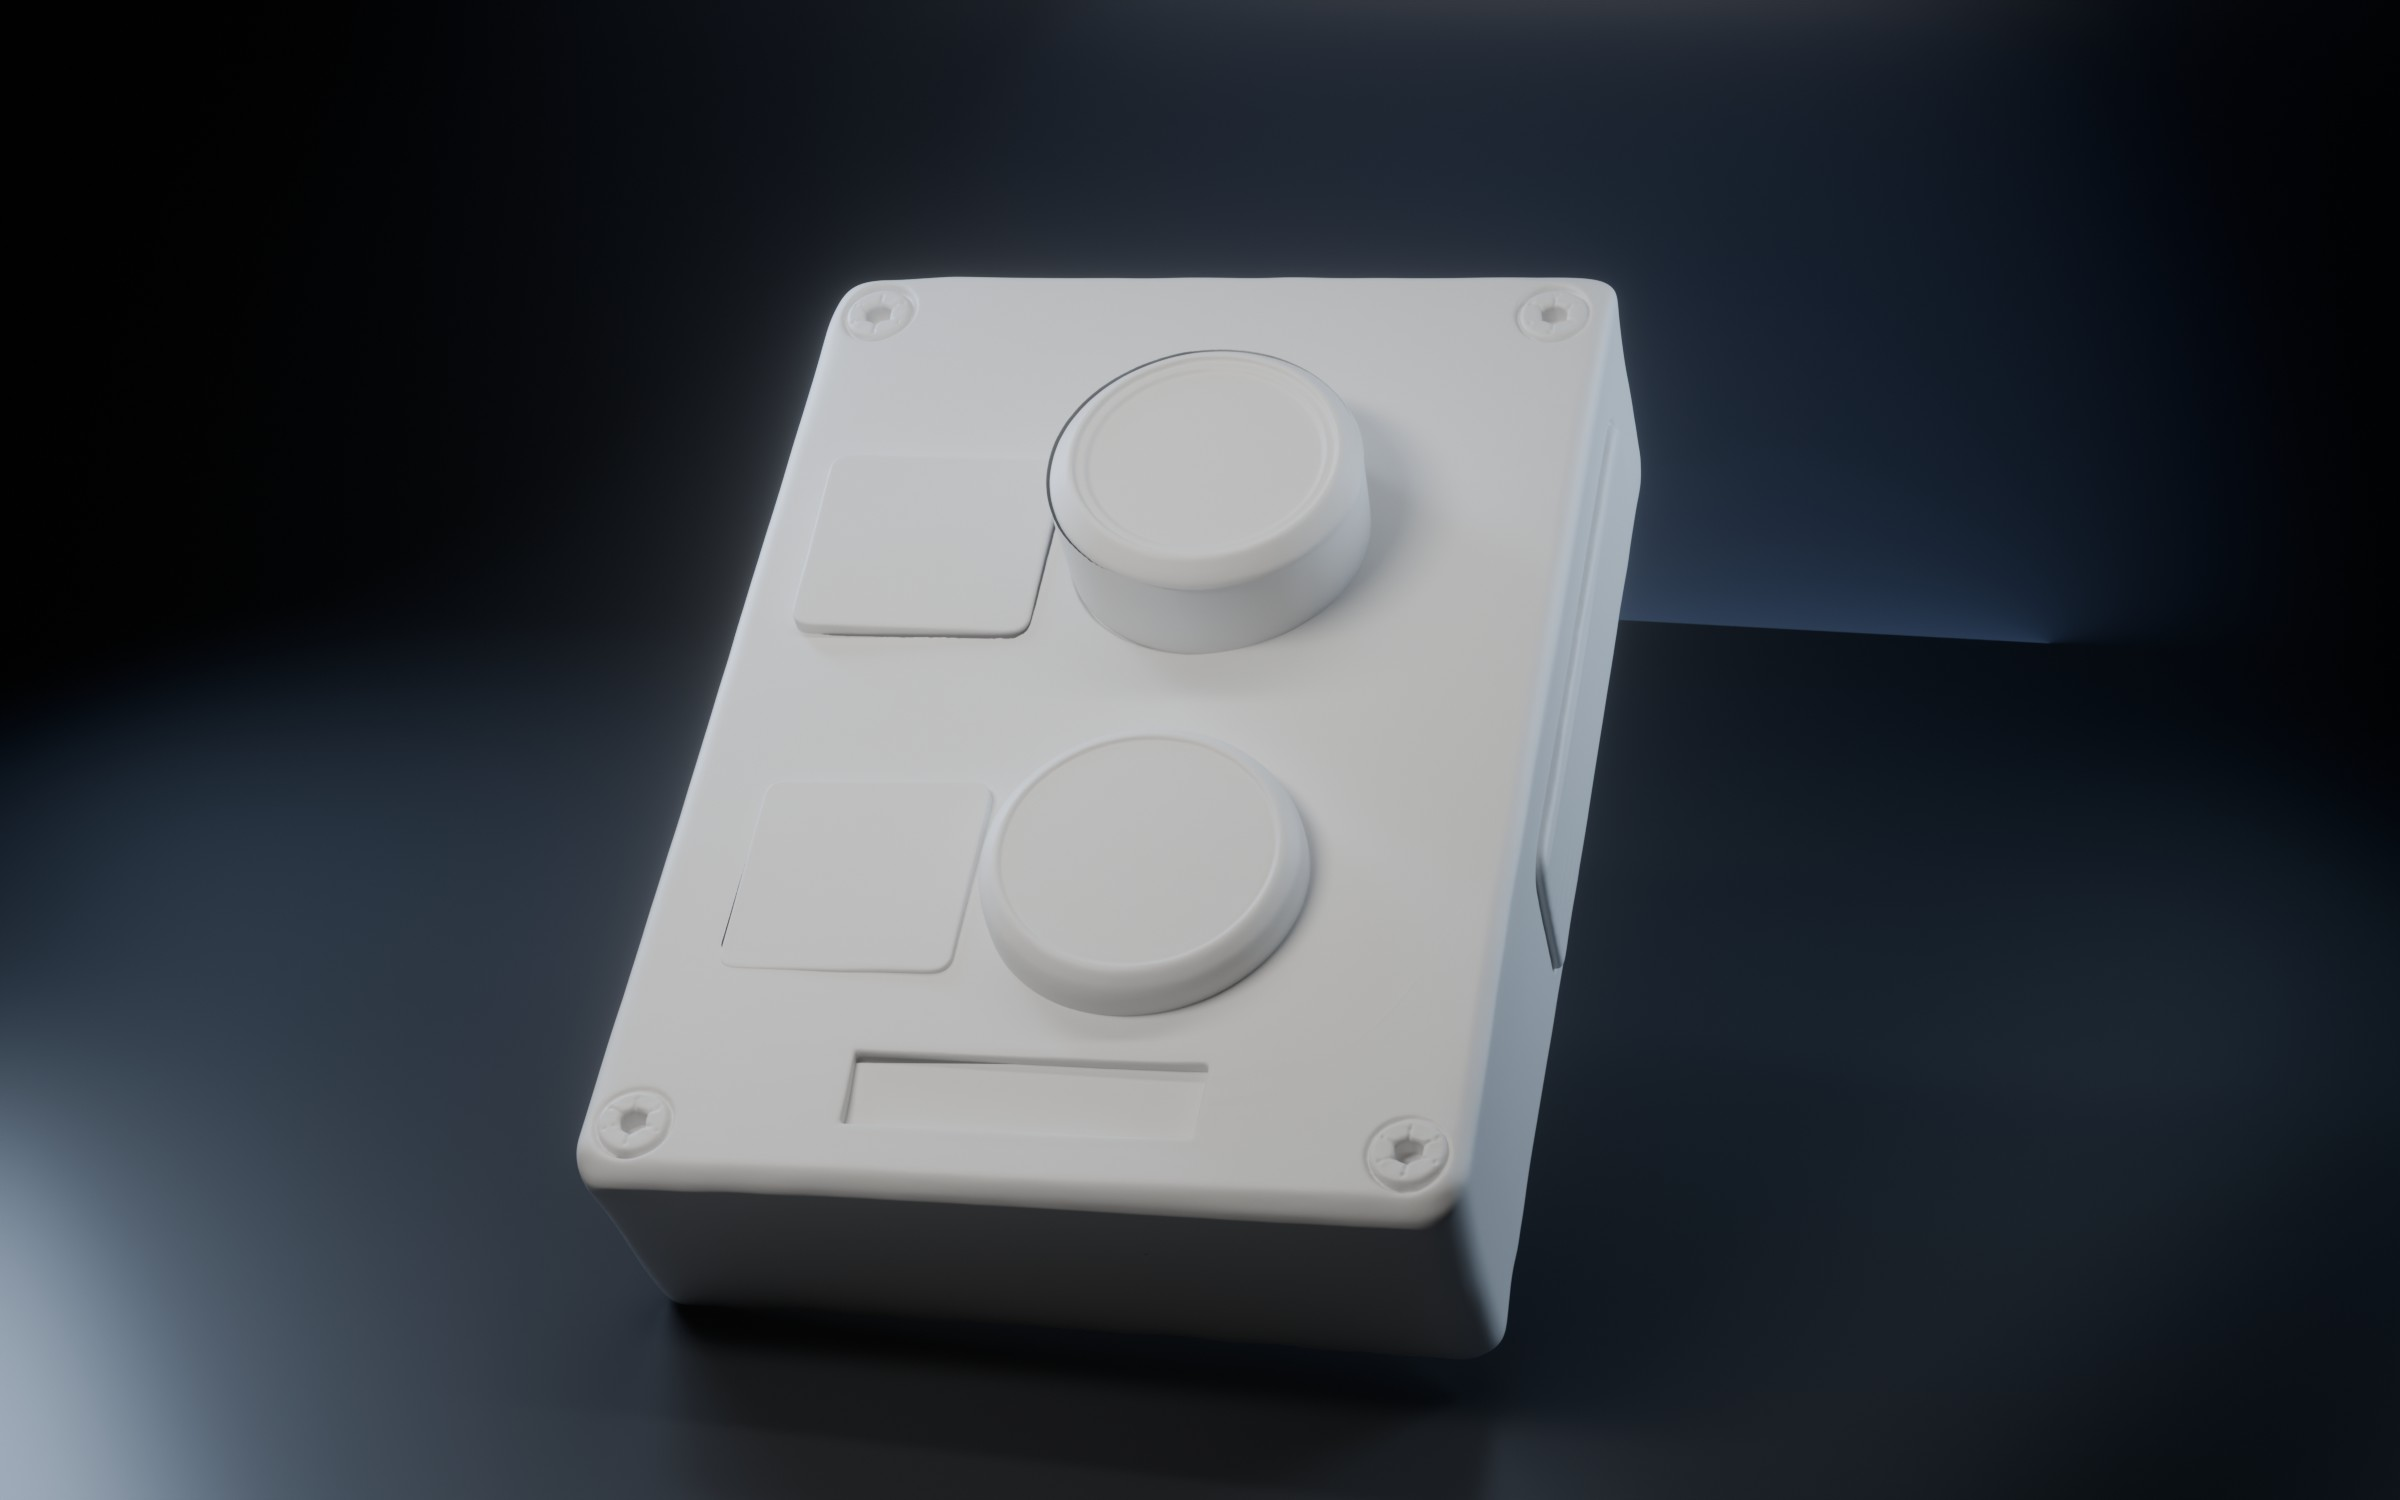
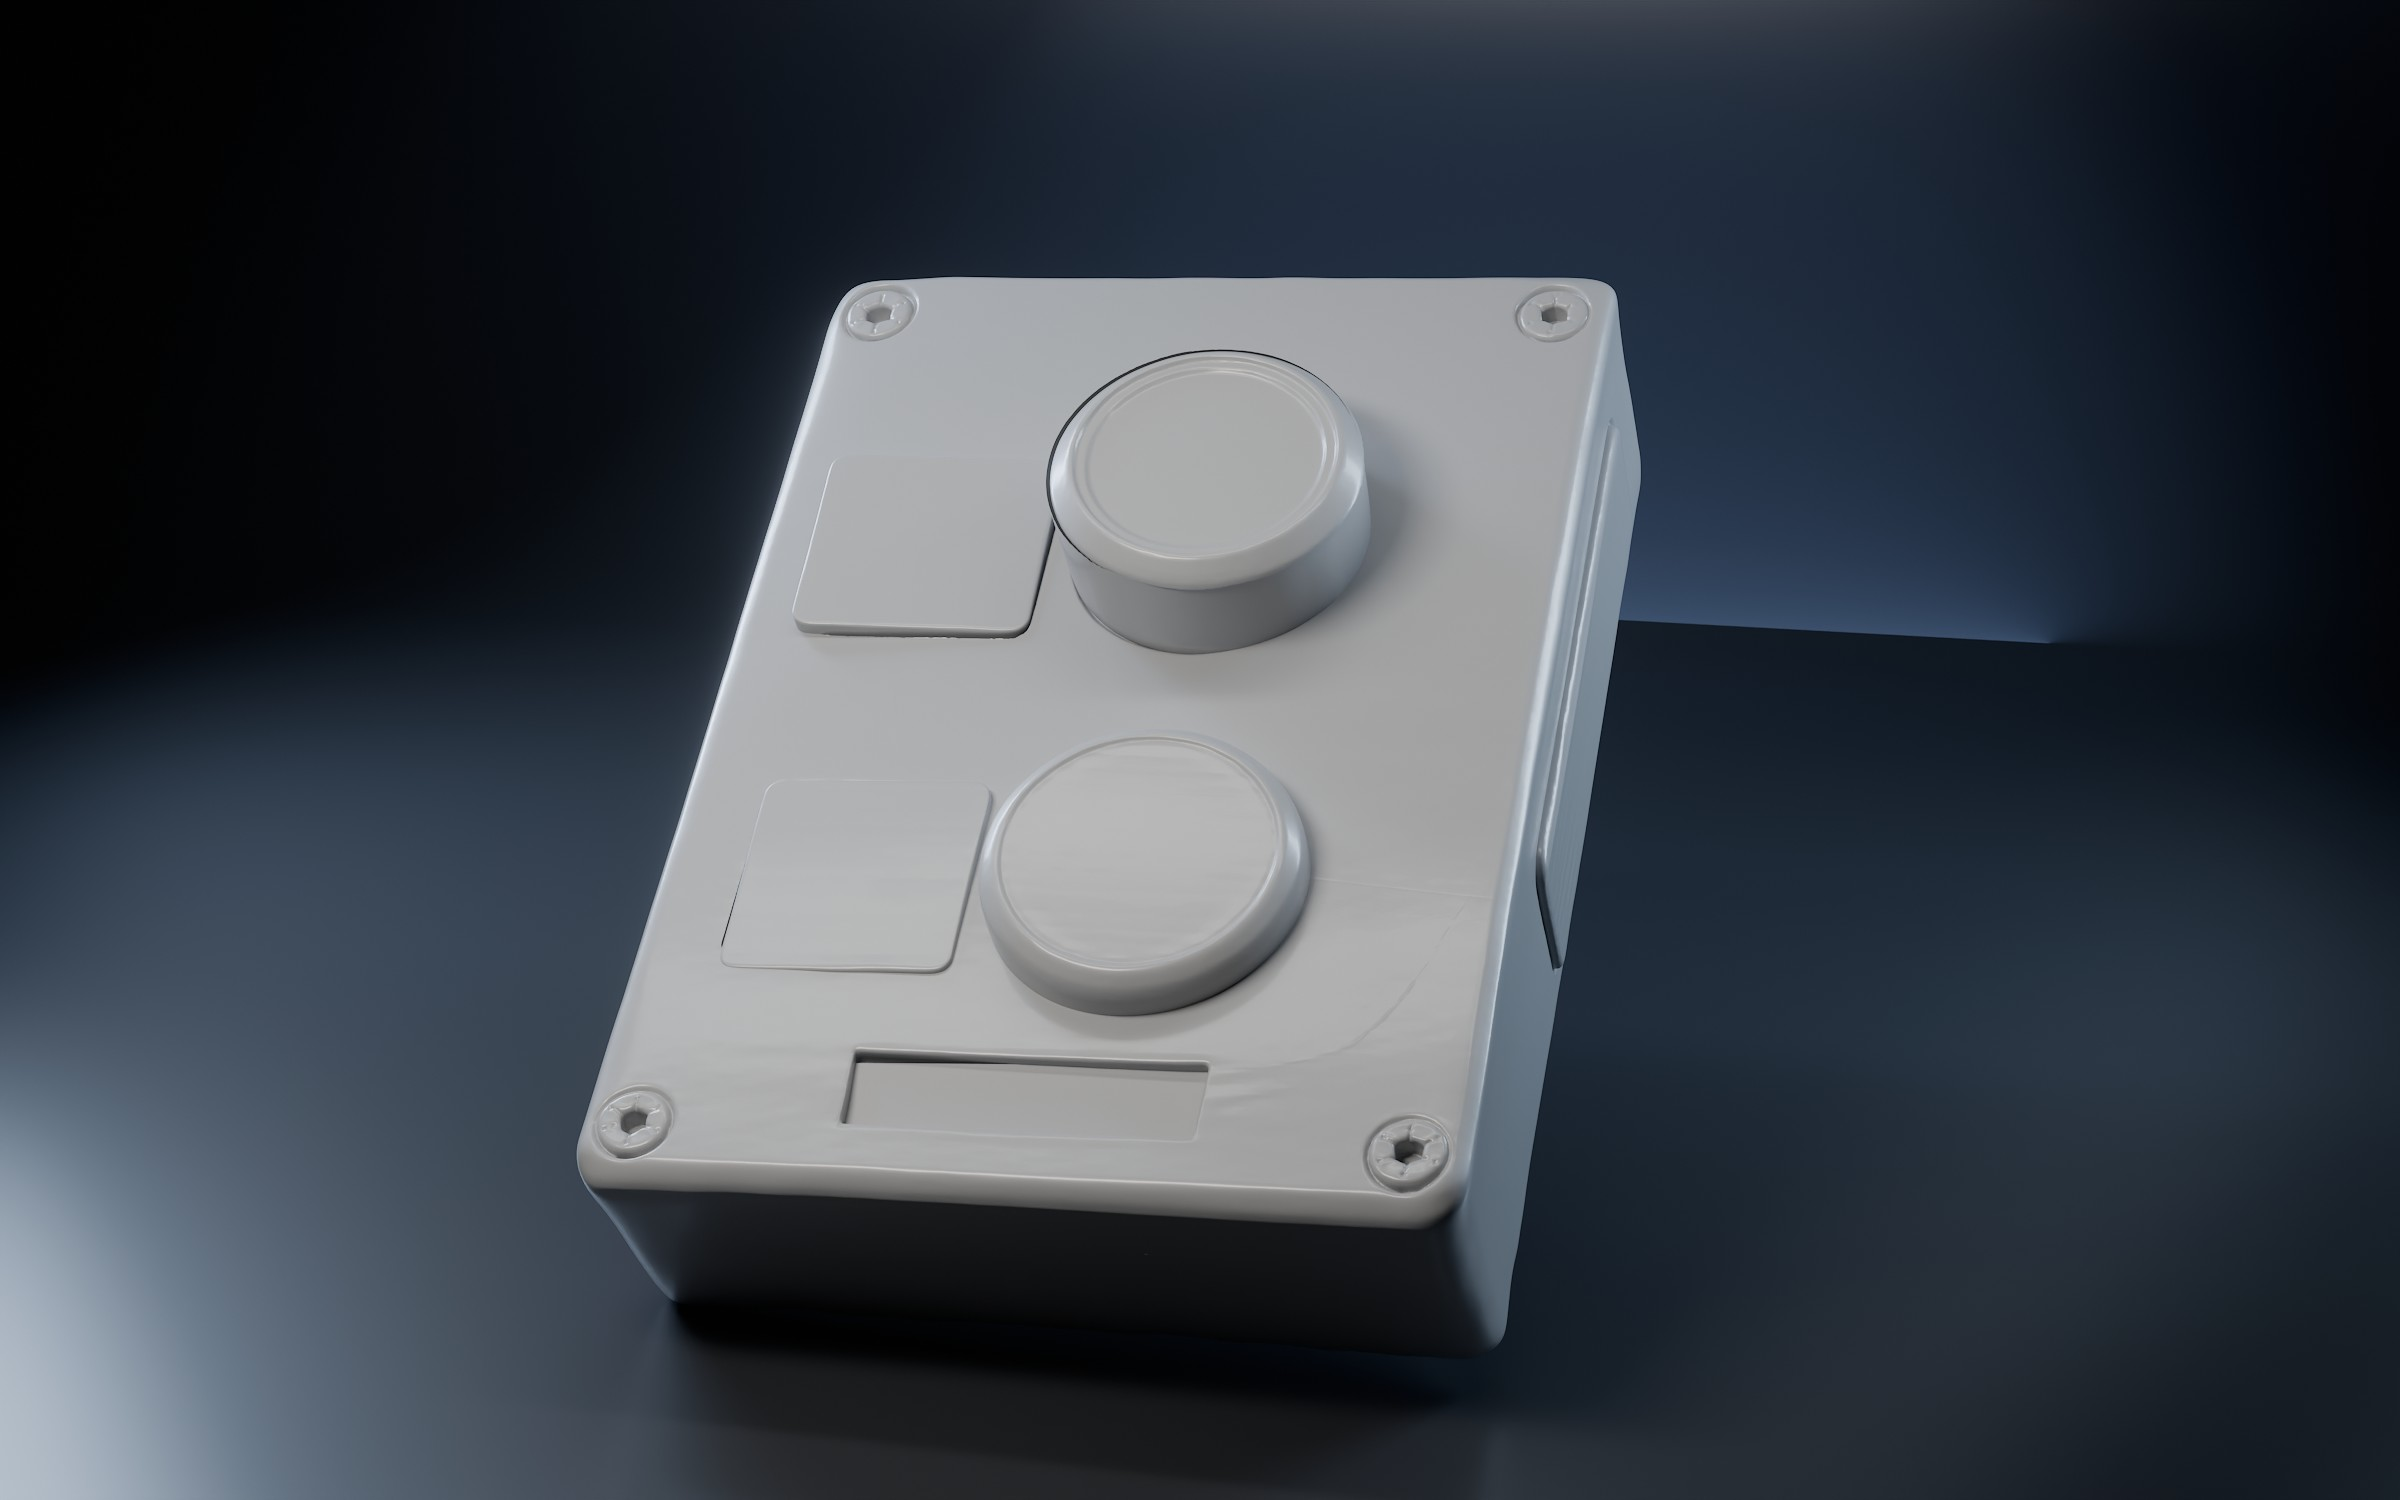
Re-render the spinner, panel, button and gate with close-ups
Each card now has two depth-of-field close-ups like the pistol and coaster train.
The untextured spinner and panel get a satin studio finish, and all four renders
get a light sharpening pass.

diff --git a/index.html b/index.html
@@ -396,15 +396,19 @@
       </figure>
       <figure class="render" data-view="render">
         <div class="shot">
-          <img class="v-render" src="renders/spinner.jpg" width="2400" height="1500" alt="A white, untextured spinning roller coaster car with a sculpted front, four seats with lap bars and a turntable chassis, on a dark studio floor" loading="lazy">
+          <img class="v-render" src="renders/spinner.jpg" width="2400" height="1500" alt="A grey, untextured spinning roller coaster car with a sculpted front, four seats with lap bars and a turntable chassis, on a dark studio floor" loading="lazy">
           <div class="views" role="group" aria-label="Spinning Coaster Car view">
             <button type="button" class="expand" aria-label="View full size">⤢</button>
           </div>
         </div>
+        <div class="details">
+          <button type="button" class="detail"><img src="renders/spinner-seats.jpg" width="1600" height="1000" alt="Close-up of the spinning car's seats and lap bars with their grab handles" loading="lazy"><span>Seats &amp; lap bars</span></button>
+          <button type="button" class="detail"><img src="renders/spinner-arch.jpg" width="1600" height="1000" alt="Close-up of the car's front arch with its grab bars and round badge" loading="lazy"><span>Front arch</span></button>
+        </div>
         <figcaption>
           <div class="r-top"><h3>Spinning Coaster Car</h3><span class="r-tag">Ride vehicle</span></div>
           <p>A spinning coaster car with a sculpted front fascia, four seats with lap bars and a turntable chassis, shown untextured.</p>
-          <div class="r-stats">1.86M tris · 99 objects · 2400×1500 in 14.2s</div>
+          <div class="r-stats">1.86M tris · 99 objects · Cycles 640 samples · 2400×1500 in 13.0s</div>
         </figcaption>
       </figure>
       <figure class="render" data-view="render">
@@ -414,10 +418,14 @@
             <button type="button" class="expand" aria-label="View full size">⤢</button>
           </div>
         </div>
+        <div class="details">
+          <button type="button" class="detail"><img src="renders/button-ridges.jpg" width="1600" height="1000" alt="Close-up of the ribs around the green button's edge" loading="lazy"><span>Ribbed ring</span></button>
+          <button type="button" class="detail"><img src="renders/button-edge.jpg" width="1600" height="1000" alt="Low close-up of the ribbed ring where it meets the black base plate" loading="lazy"><span>Base</span></button>
+        </div>
         <figcaption>
           <div class="r-top"><h3>Arcade Button</h3><span class="r-tag">Prop</span></div>
           <p>A glossy green button with a ribbed ring, set on a black base plate.</p>
-          <div class="r-stats">246,264 tris · 2400×1500 in 11.9s</div>
+          <div class="r-stats">246,264 tris · Cycles 640 samples · 2400×1500 in 11.4s</div>
         </figcaption>
       </figure>
       <figure class="render" data-view="render">
@@ -427,23 +435,31 @@
             <button type="button" class="expand" aria-label="View full size">⤢</button>
           </div>
         </div>
+        <div class="details">
+          <button type="button" class="detail"><img src="renders/gate-mesh.jpg" width="1600" height="1000" alt="Close-up of the welded square mesh, receding into blur" loading="lazy"><span>Mesh panel</span></button>
+          <button type="button" class="detail"><img src="renders/gate-cap.jpg" width="1600" height="1000" alt="Close-up of a capped post at the corner of the gate frame" loading="lazy"><span>Post cap</span></button>
+        </div>
         <figcaption>
           <div class="r-top"><h3>Mesh Gate</h3><span class="r-tag">Prop</span></div>
           <p>A black steel gate with a welded mesh panel, hinges and capped posts.</p>
-          <div class="r-stats">234,408 tris · 2400×1500 in 10.3s</div>
+          <div class="r-stats">234,408 tris · Cycles 640 samples · 2400×1500 in 9.7s</div>
         </figcaption>
       </figure>
       <figure class="render" data-view="render">
         <div class="shot">
-          <img class="v-render" src="renders/panel.jpg" width="2400" height="1500" alt="A white, untextured control box with two round buttons, label recesses and screws in each corner" loading="lazy">
+          <img class="v-render" src="renders/panel.jpg" width="2400" height="1500" alt="A grey, untextured control box with two round buttons, label recesses and screws in each corner" loading="lazy">
           <div class="views" role="group" aria-label="Control Panel view">
             <button type="button" class="expand" aria-label="View full size">⤢</button>
           </div>
         </div>
+        <div class="details">
+          <button type="button" class="detail"><img src="renders/panel-button.jpg" width="1600" height="1000" alt="Close-up of the raised round button and the label recess beside it" loading="lazy"><span>Raised button</span></button>
+          <button type="button" class="detail"><img src="renders/panel-screw.jpg" width="1600" height="1000" alt="Close-up of a screw in the corner of the control box" loading="lazy"><span>Corner screw</span></button>
+        </div>
         <figcaption>
           <div class="r-top"><h3>Control Panel</h3><span class="r-tag">Prop</span></div>
           <p>A two-button control box with screw-fixed corners and label recesses, shown untextured.</p>
-          <div class="r-stats">1.80M tris · 24 objects · 2400×1500 in 11.5s</div>
+          <div class="r-stats">1.80M tris · 24 objects · Cycles 640 samples · 2400×1500 in 11.2s</div>
         </figcaption>
       </figure>
       <figure class="render wide" data-view="render">

diff --git a/blender/render_own_model.py b/blender/render_own_model.py
@@ -14,6 +14,9 @@ exposure darkens or brightens the beauty shot, for models with very light materi
 wire_exposure does the same for the clay pass (dense meshes need it brighter). framing is
 the camera distance as a multiple of the model's size (default 2.15), and aim_z moves the
 point the camera aims at up or down (default -0.05).
+material=satin gives untextured models (Blender's flat default grey) a satin finish
+instead. sharpen adds a light sharpening pass (0 to 1, default 0). wire=0 skips the clay
+pass.
 shots is a JSON list of close-up cameras, each rendered as <name>-<shot>.jpg:
     [{"name": "sights", "target": [x, y, z], "direction": [x, y, z], "distance": 4, "lens": 100, "fstop": 2.8}]
 """
@@ -38,6 +41,9 @@ WIRE_EXPOSURE = float(options.get("wire_exposure", -1.6))
 FRAMING = float(options.get("framing", 2.15))
 # Raises or lowers the point the camera aims at, for models whose near end looms large.
 AIM_Z = float(options.get("aim_z", -0.05))
+MATERIAL = options.get("material")
+SHARPEN = float(options.get("sharpen", 0.0))
+WIRE = options.get("wire", "1") != "0"
 SHOTS = []
 if "shots" in options:
     with open(options["shots"]) as f:
@@ -107,7 +113,15 @@ def finishing(bloom=0.35, vignette=0.55):
         mix.blend_type = "MULTIPLY"
         mix.inputs[0].default_value = vignette
         out = n.new("NodeGroupOutput")
-        link(layers.outputs["Image"], glare.inputs["Image"])
+        source = layers.outputs["Image"]
+        if SHARPEN > 0:
+            sharpen = n.new("CompositorNodeFilter")
+            set_menu(sharpen.inputs["Type"], ("Diamond Sharpen", "Sharpen Diamond", "Box Sharpen", "Sharpen Box", "Sharpen"))
+            print(f"[portfolio] sharpen filter: {sharpen.inputs['Type'].default_value}", flush=True)
+            sharpen.inputs["Factor"].default_value = SHARPEN
+            link(source, sharpen.inputs["Image"])
+            source = sharpen.outputs["Image"]
+        link(source, glare.inputs["Image"])
         link(glare.outputs["Image"], mix.inputs[6])
         link(mask.outputs["Mask"], blur.inputs["Image"])
         link(blur.outputs["Image"], mix.inputs[7])
@@ -143,6 +157,28 @@ def clay():
     mix.inputs[7].default_value = (0.05, 0.055, 0.07, 1)
     p = next(node for node in nt.nodes if node.type == "BSDF_PRINCIPLED")
     nt.links.new(mix.outputs[2], p.inputs["Base Color"])
+    return m
+
+
+def satin():
+    """A satin finish for models that come without materials. Tripo models are split into
+    separate parts, and the gaps between them show the inside of the parts from behind,
+    which renders as black cracks. Faces seen from behind get a flat matching tone instead."""
+    m = new_material("Satin", (0.36, 0.365, 0.375), 0.36)
+    nt = m.node_tree
+    p = next(node for node in nt.nodes if node.type == "BSDF_PRINCIPLED")
+    p.inputs["Coat Weight"].default_value = 0.35
+    p.inputs["Coat Roughness"].default_value = 0.15
+    out = next(node for node in nt.nodes if node.type == "OUTPUT_MATERIAL")
+    geometry = nt.nodes.new("ShaderNodeNewGeometry")
+    fill = nt.nodes.new("ShaderNodeEmission")
+    fill.inputs["Color"].default_value = (0.36, 0.365, 0.375, 1)
+    fill.inputs["Strength"].default_value = 0.25
+    mix = nt.nodes.new("ShaderNodeMixShader")
+    nt.links.new(geometry.outputs["Backfacing"], mix.inputs["Fac"])
+    nt.links.new(p.outputs["BSDF"], mix.inputs[1])
+    nt.links.new(fill.outputs["Emission"], mix.inputs[2])
+    nt.links.new(mix.outputs["Shader"], out.inputs["Surface"])
     return m
 
 
@@ -231,6 +267,13 @@ size = (hi - lo).length
 # The studio is laid out for a model about 6.3 units across (the pistol). Other models
 # get the same studio scaled to their size, so the lighting looks the same.
 scale = size / 6.3
+
+if MATERIAL == "satin":
+    finish = satin()
+    for ob in model:
+        if not any(slot.material for slot in ob.material_slots):
+            ob.data.materials.clear()
+            ob.data.materials.append(finish)
 
 # The file's own lights and camera are replaced by the studio setup below.
 for ob in [o for o in scene.objects if o.type in ("LIGHT", "CAMERA")]:
@@ -332,19 +375,20 @@ cam.location, cam.rotation_euler, cam_data.lens, cam_data.dof.focus_distance, ca
 
 # Clay and wireframe pass: same shot, every model material swapped for clay. Nothing is
 # saved, so the swap never reaches the original file.
-wire = clay()
-matte = new_material("Matte", (0.05, 0.05, 0.06), 0.9)
-for ob in scene.objects:
-    if ob.type == "MESH":
-        ob.data.materials.clear()
-        ob.data.materials.append(matte if ob.name == "Backdrop" else wire)
-scene.view_settings.exposure = WIRE_EXPOSURE
-scene.cycles.samples = 24 if PREVIEW else 200
-render.resolution_x, render.resolution_y = (800, 500) if PREVIEW else (1600, 1000)
-render.filepath = os.path.join(RENDER_DIR, NAME + "-wire.jpg")
-started = time.time()
-bpy.ops.render.render(write_still=True)
-info["wire_seconds"] = round(time.time() - started, 1)
+if WIRE:
+    wire = clay()
+    matte = new_material("Matte", (0.05, 0.05, 0.06), 0.9)
+    for ob in scene.objects:
+        if ob.type == "MESH":
+            ob.data.materials.clear()
+            ob.data.materials.append(matte if ob.name == "Backdrop" else wire)
+    scene.view_settings.exposure = WIRE_EXPOSURE
+    scene.cycles.samples = 24 if PREVIEW else 200
+    render.resolution_x, render.resolution_y = (800, 500) if PREVIEW else (1600, 1000)
+    render.filepath = os.path.join(RENDER_DIR, NAME + "-wire.jpg")
+    started = time.time()
+    bpy.ops.render.render(write_still=True)
+    info["wire_seconds"] = round(time.time() - started, 1)
 
 if not PREVIEW:
     stats_path = os.path.join(RENDER_DIR, "stats.json")

diff --git a/README.md b/README.md
@@ -10,5 +10,5 @@ Roblox game systems in strict-typed Luau (combat, player data and saving, econom
 - `renders/`: the Blender renders shown on the page, the matching clay and wireframe renders (`*-wire.jpg`), and `stats.json` with each scene's triangle count and render time.
 - `blender/build_scenes.py`: the script that builds and renders the three shop item scenes. Run it with `blender -b --factory-startup --python blender/build_scenes.py -- renders blender`.
 - `blender/render_own_model.py`: renders a model from an existing .blend file in a studio setup without changing the model or saving its file, plus close-ups listed in a shots file. Run it with `blender -b <model.blend> --python blender/render_own_model.py -- renders pistol shots=blender/shots-pistol.json`.
-- `blender/shots-*.json`: the close-up cameras for each hand-made model.
+- `blender/shots-*.json`: the close-up cameras for each model.
 - `blender/*.blend`: the saved scenes (Blender 5.1).
